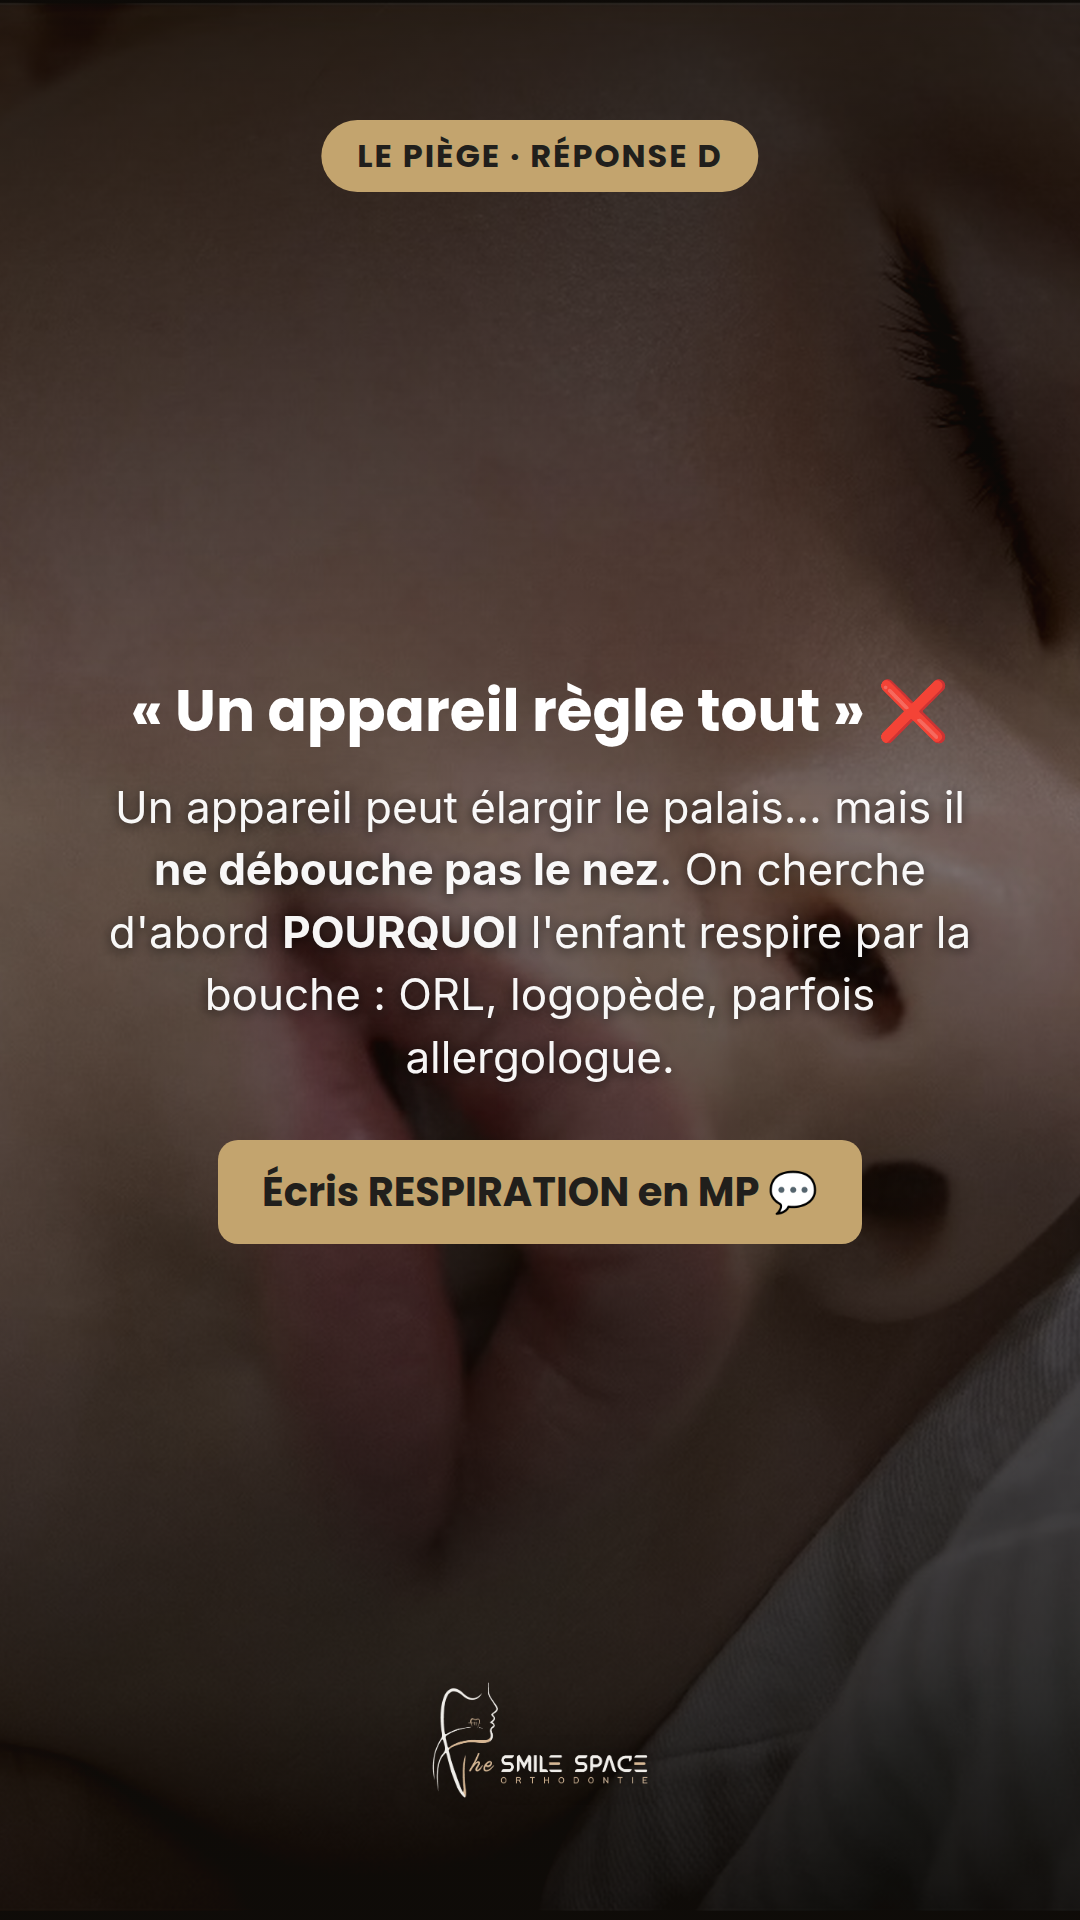
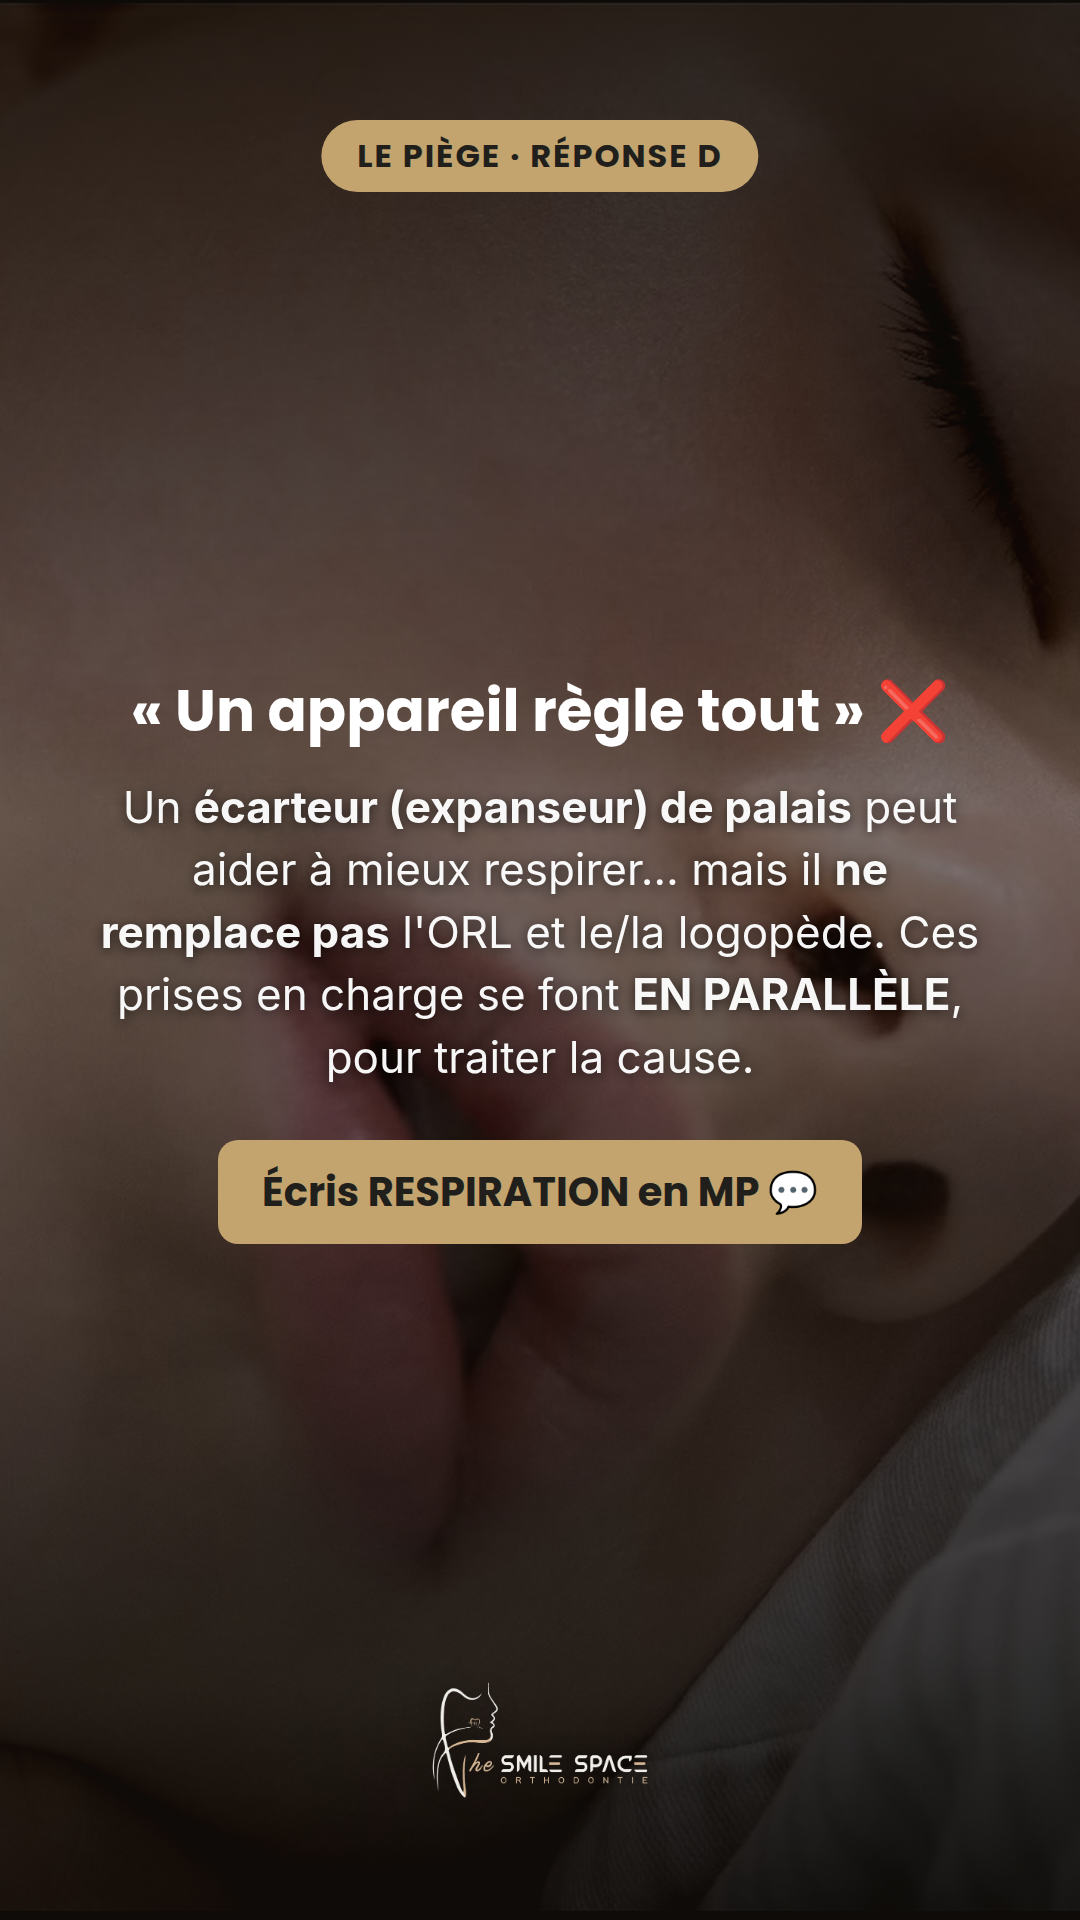
Story 3 respiration : message affine (expanseur aide a respirer mais ne remplace pas ORL/logopede, en parallele)
Claude-Session: https://claude.ai/code/session_014brP78CXMSfVZFDbExkY7E

Changed region(s): [[0.0917, 0.4062, 0.9167, 0.5625]]

diff --git a/quiz/_stories.js b/quiz/_stories.js
@@ -48,7 +48,7 @@ const stories=[
 `<div class="tag">Le piège · réponse D</div>
  <div class="wrap">
    <div class="warn">« Un appareil règle tout » ❌</div>
-   <div class="why">Un appareil peut élargir le palais… mais il <b>ne débouche pas le nez</b>. On cherche d'abord <b>POURQUOI</b> l'enfant respire par la bouche : ORL, logopède, parfois allergologue.</div>
+   <div class="why">Un <b>écarteur (expanseur) de palais</b> peut aider à mieux respirer… mais il <b>ne remplace pas</b> l'ORL et le/la logopède. Ces prises en charge se font <b>EN PARALLÈLE</b>, pour traiter la cause.</div>
    <div class="cta">Écris RESPIRATION en MP 💬</div>
  </div>
  <div class="foot"><img src="${logo}"></div>`,
